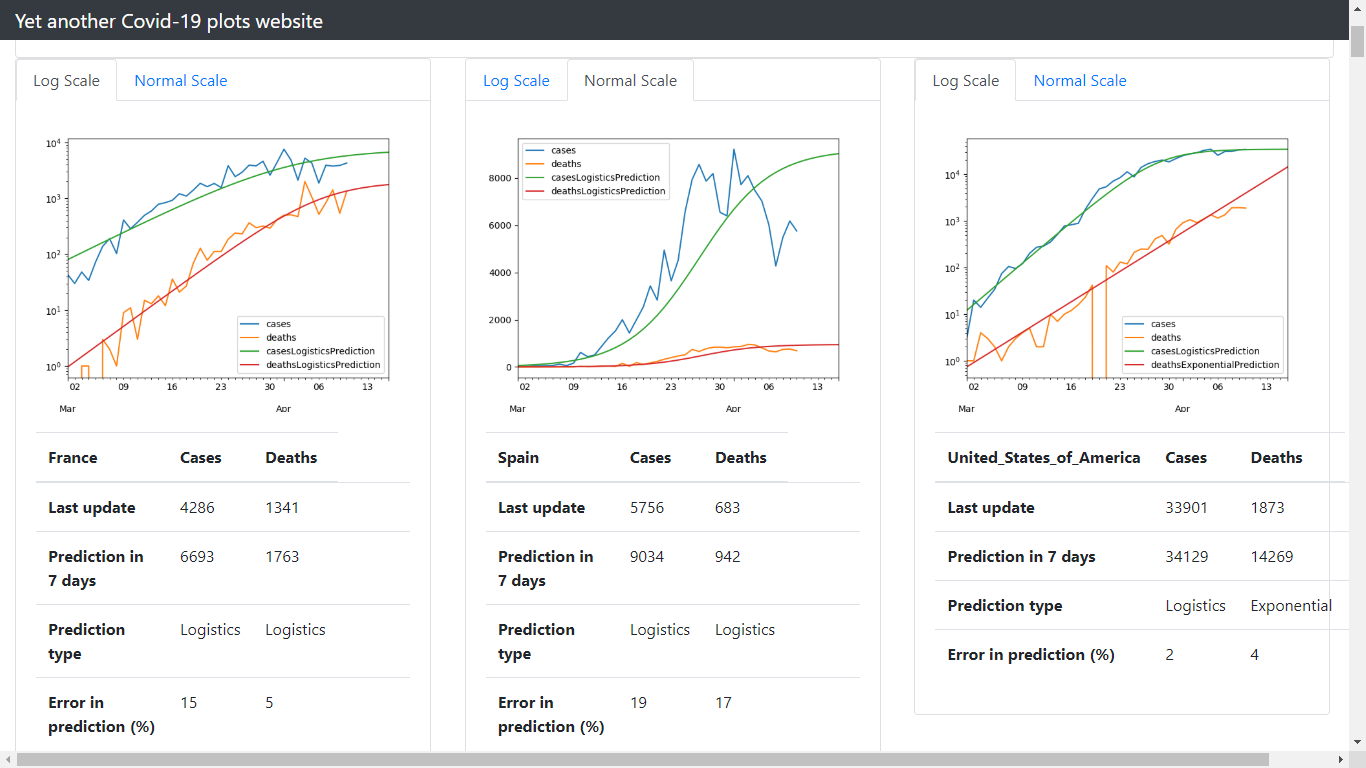
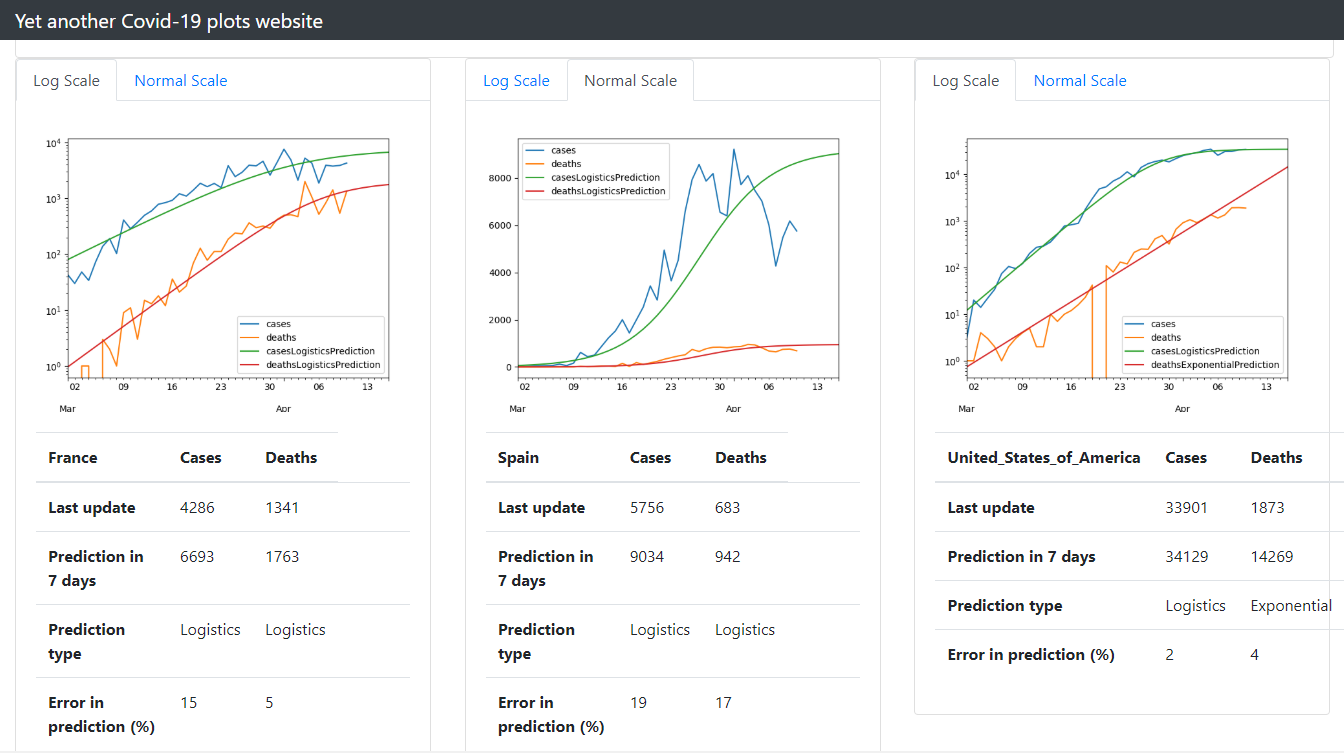
Readme: update

diff --git a/README.md b/README.md
@@ -3,7 +3,7 @@
 This repo makes graphs for coronavirus cases from [this data source](https://www.ecdc.europa.eu/en/publications-data/download-todays-data-geographic-distribution-covid-19-cases-worldwide)
 to publish them to [this github page](https://mathiasleborgne.github.io/covid-graph/).
 
-![Cases/Deaths 03/09/2020](ScreenshotApril9.png "Cases/Deaths 03/09/2020")
+![Cases/Deaths 03/10/2020](ScreenshotApril10.png "Cases/Deaths 03/10/2020")
 
 
 ## Install and build
